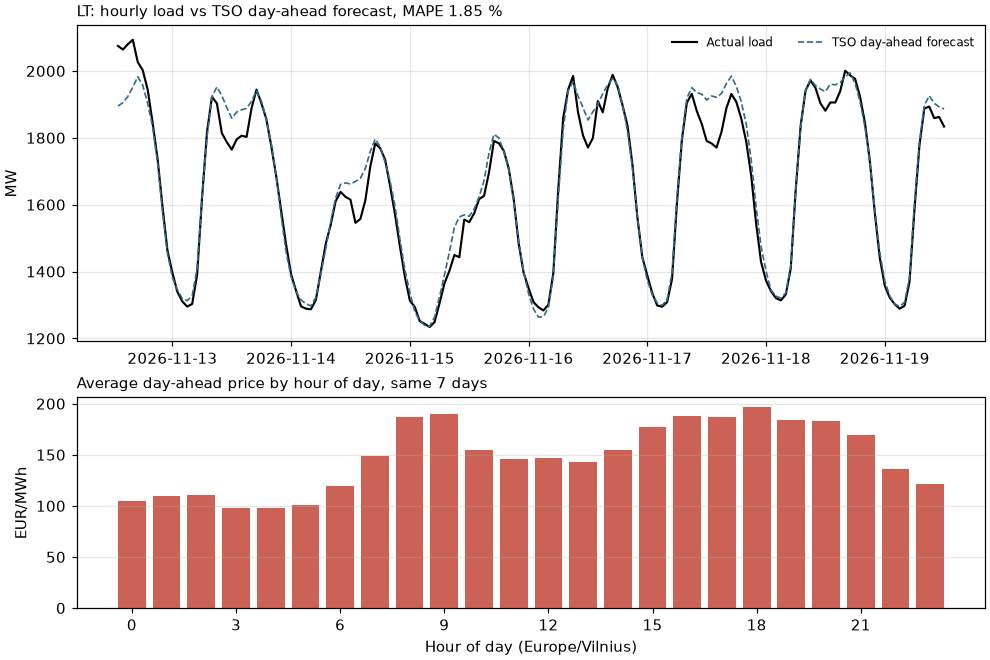
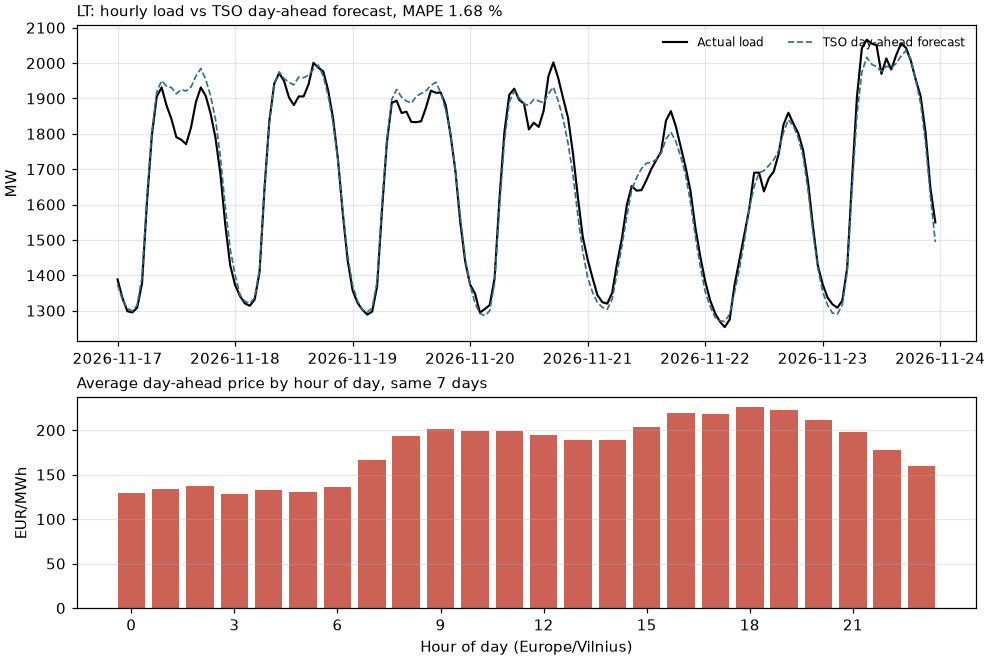
Weekly report 2026-11-23

diff --git a/reports/latest.md b/reports/latest.md
@@ -1,6 +1,6 @@
 # LT weekly report
 
-Period: 2026-11-12 13:00 to 2026-11-19 12:00 (Europe/Vilnius time), 168 hours. Generated 2026-11-19 11:37 UTC by the weekly workflow. Data: ENTSO-E Transparency Platform.
+Period: 2026-11-17 00:00 to 2026-11-23 23:00 (Europe/Vilnius time), 168 hours. Generated 2026-11-23 22:14 UTC by the weekly workflow. Data: ENTSO-E Transparency Platform.
 
 ![Load, forecast and price profile](latest.png)
 
@@ -8,8 +8,8 @@ Period: 2026-11-12 13:00 to 2026-11-19 12:00 (Europe/Vilnius time), 168 hours. G
 
 | Metric | Value |
 |---|---|
-| MAE | 32 MW |
-| MAPE | 1.85 % |
+| MAE | 29 MW |
+| MAPE | 1.68 % |
 | Hours compared | 168 of 168 |
 
 Error of the TSO's published day-ahead forecast against actual load, hour by hour. Hours missing either value are left out.
@@ -18,35 +18,35 @@ Error of the TSO's published day-ahead forecast against actual load, hour by hou
 
 No missing hours in any series.
 
-Hours with at least one series missing: 0 of 168. Hours with incomplete sub-hourly load data: 0.
+Hours with at least one series missing: 0 of 168. Hours with incomplete sub-hourly load data: 1.
 
 ## Day-ahead price
 
-Average 148.1 EUR/MWh, lowest hour 15.9, highest hour 280.1, hours below zero: 0.
+Average 178.9 EUR/MWh, lowest hour 27.5, highest hour 303.0, hours below zero: 0.
 
 | Hour (Europe/Vilnius) | Average price (EUR/MWh) |
 |---:|---:|
-| 00:00 | 105.0 |
-| 01:00 | 109.7 |
-| 02:00 | 110.9 |
-| 03:00 | 97.8 |
-| 04:00 | 97.6 |
-| 05:00 | 101.2 |
-| 06:00 | 119.4 |
-| 07:00 | 148.5 |
-| 08:00 | 187.2 |
-| 09:00 | 189.9 |
-| 10:00 | 154.4 |
-| 11:00 | 145.7 |
-| 12:00 | 147.1 |
-| 13:00 | 143.2 |
-| 14:00 | 154.9 |
-| 15:00 | 177.1 |
-| 16:00 | 188.0 |
-| 17:00 | 187.4 |
-| 18:00 | 196.4 |
-| 19:00 | 184.3 |
-| 20:00 | 182.6 |
-| 21:00 | 169.0 |
-| 22:00 | 136.2 |
-| 23:00 | 121.2 |
+| 00:00 | 129.7 |
+| 01:00 | 133.8 |
+| 02:00 | 137.4 |
+| 03:00 | 127.9 |
+| 04:00 | 132.4 |
+| 05:00 | 130.1 |
+| 06:00 | 136.1 |
+| 07:00 | 166.9 |
+| 08:00 | 193.8 |
+| 09:00 | 201.3 |
+| 10:00 | 199.0 |
+| 11:00 | 198.8 |
+| 12:00 | 194.7 |
+| 13:00 | 189.0 |
+| 14:00 | 189.2 |
+| 15:00 | 203.5 |
+| 16:00 | 219.2 |
+| 17:00 | 217.6 |
+| 18:00 | 225.5 |
+| 19:00 | 222.1 |
+| 20:00 | 210.9 |
+| 21:00 | 197.7 |
+| 22:00 | 177.8 |
+| 23:00 | 159.9 |

diff --git a/README.md b/README.md
@@ -4,11 +4,11 @@
 [![Daily data refresh](https://github.com/mantas123456/energy-data-pipeline/actions/workflows/daily.yml/badge.svg)](https://github.com/mantas123456/energy-data-pipeline/actions/workflows/daily.yml)
 
 <!-- weekly-report:start -->
-**Last 7 days:** 2026-11-12 13:00 to 2026-11-19 12:00 (Europe/Vilnius time). Updated weekly; [full report](reports/latest.md).
+**Last 7 days:** 2026-11-17 00:00 to 2026-11-23 23:00 (Europe/Vilnius time). Updated weekly; [full report](reports/latest.md).
 
 | TSO forecast error (MAPE) | Average day-ahead price | Hours with missing data |
 |---|---|---|
-| 1.85 % (MAE 32 MW) | 148.1 EUR/MWh | 0 of 168 |
+| 1.68 % (MAE 29 MW) | 178.9 EUR/MWh | 0 of 168 |
 
 ![Last 7 days: load, TSO forecast and price profile](reports/latest.png)
 <!-- weekly-report:end -->
